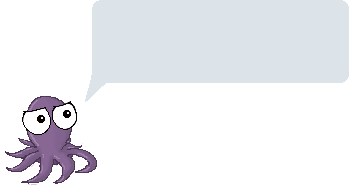
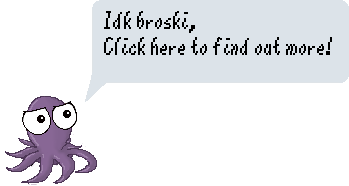
Octopus now speaks
fish fish

diff --git a/index.html b/index.html
@@ -158,7 +158,7 @@ What are the positive and negative opinions of each stakeholder?
                 <tr>
 
                     <td style="text-align:center">
-                        <a href="p2.html"> <img src="Smaller Shigeru says...png" style="width: 300px; height: 200px; margin-left: 50px;"></a>
+                        <a href="p2.html"> <img src="fish Speaking.png" style="width: 350px; height: 150px; margin-left: 50px;"></a>
 
                         <p id="p2"><a href="#Piracyl"></a></p></td>
 
